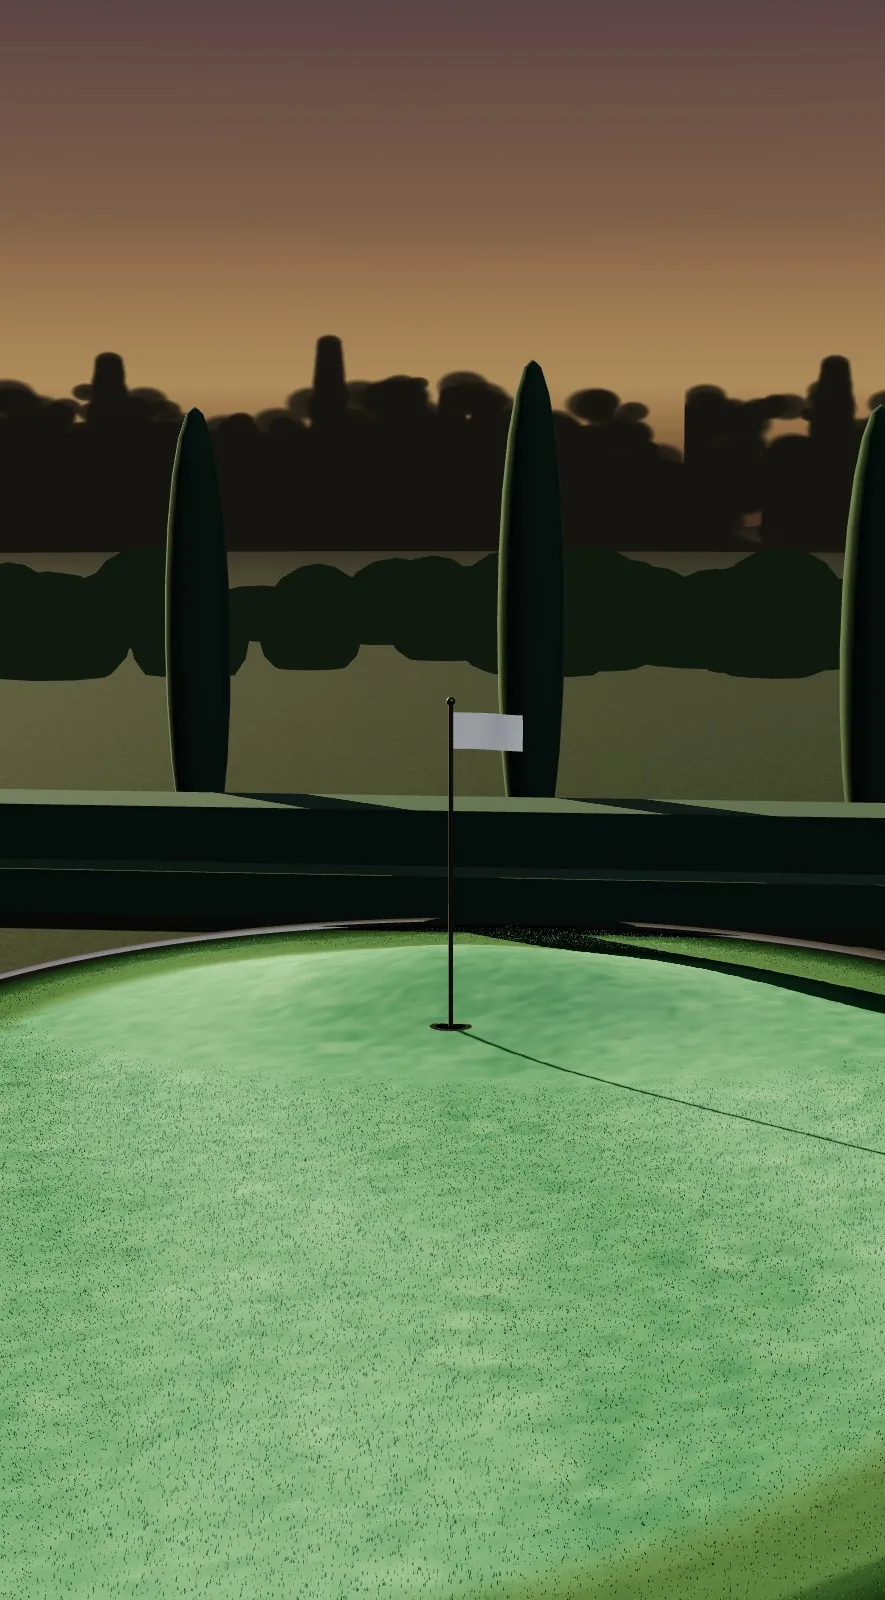
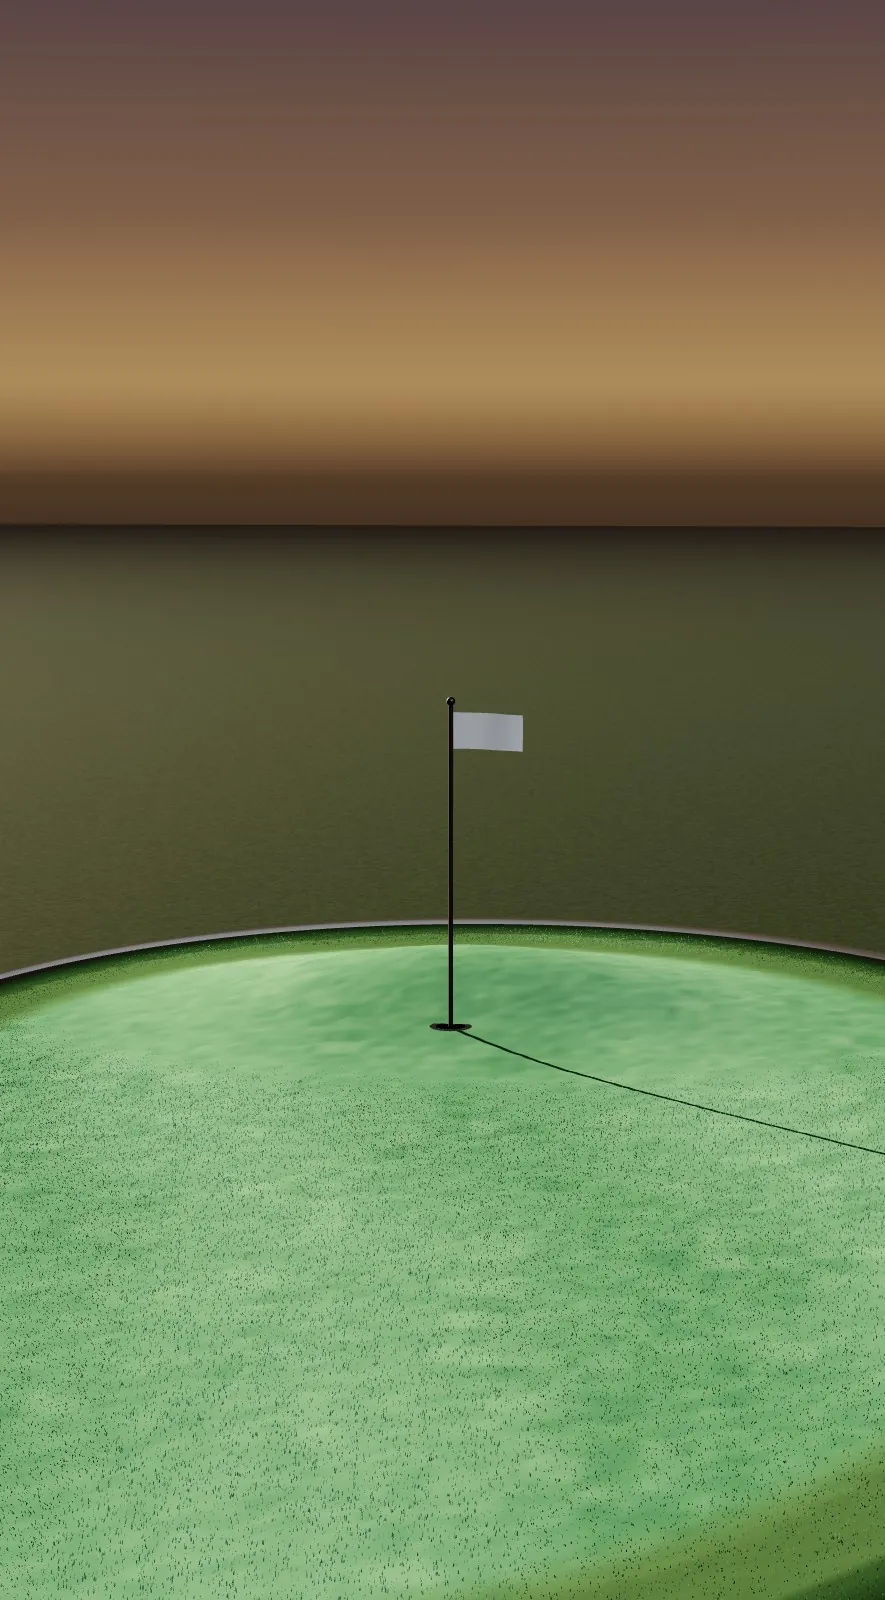
Hero: drop the primitive garden, keep the abstract dusk plain
Vegetation and scenery built from spheres and boxes read as unrealistic, so
the hedge, cypress columns, shrub mass, treeline ring, specimen trees,
terrace and path lights are removed. The environment is now the sky dome,
the darker lawn and the stone coping, plus the hole under the green that
fixes the sunken-turf glitch. Posters and share image re-captured.

diff --git a/terraputt-hero.html b/terraputt-hero.html
@@ -1416,8 +1416,8 @@ function init() {
   const SHADOW_RES = LOW_POWER ? 2048 : 4096;
   key.shadow.mapSize.width = SHADOW_RES;
   key.shadow.mapSize.height = SHADOW_RES;
-  key.shadow.camera.left = -18; key.shadow.camera.right = 18;
-  key.shadow.camera.top = 18;  key.shadow.camera.bottom = -18;
+  key.shadow.camera.left = -10; key.shadow.camera.right = 10;
+  key.shadow.camera.top = 10;  key.shadow.camera.bottom = -10;
   key.shadow.camera.near = 0.1; key.shadow.camera.far = 60;
   key.shadow.bias = -0.00015;
   key.shadow.normalBias = 0.035;   // was 0.06 — less "peter panning" so shadows stay attached to raised topology
@@ -1567,7 +1567,6 @@ function buildEnvironment() {
   coping.receiveShadow = true;
   scene.add(coping);
 
-  buildGarden();
 }
 
 function easeInOut(t) { return t<0.5 ? 4*t*t*t : 1 - Math.pow(-2*t+2, 3)/2; }
@@ -1736,191 +1735,6 @@ function updateGeometry(t) {
       mesh.setMatrixAt(k, d.matrix);
     }
     mesh.instanceMatrix.needsUpdate = true;
-  }
-}
-
-/* =================================================================
-   Garden — the designed landscape the green belongs to: clipped
-   hedges as a backdrop, trees with real volume, a stone terrace with
-   path lights where the viewer stands, and a far ring of trees for
-   the horizon. Everything is dark at dusk and lit from behind.
-   ================================================================= */
-function buildGarden() {
-  const leaf  = new THREE.MeshStandardMaterial({ color: 0x142019, roughness: 1.0, metalness: 0.0 });
-  const leafFar = new THREE.MeshBasicMaterial({ color: 0x0f170f, fog: true });
-  const hedge = new THREE.MeshStandardMaterial({ color: 0x182618, roughness: 1.0, metalness: 0.0 });
-  const bark  = new THREE.MeshStandardMaterial({ color: 0x2a2119, roughness: 0.95, metalness: 0.0 });
-
-  // Clipped hedge blocks behind the green, a broken line with gaps for depth
-  const hedges = [
-    // x, z, length(x), height, depth(z)
-    [ 0.0, -8.0, 14.0, 0.82, 0.9],   // main clipped hedge across the back
-    [ 0.0, -7.1, 14.6, 0.38, 0.5],   // lower step in front of it
-    [-7.3, -4.9,  0.9, 0.82, 5.4],   // return down the left side
-    [ 7.3, -6.4,  0.9, 0.82, 2.6]    // short return on the right, open toward the terrace
-  ];
-  for (const [x, z, l, h, d] of hedges) {
-    const m = new THREE.Mesh(new THREE.BoxGeometry(l, h, d), hedge);
-    m.position.set(x, h / 2 - 0.02, z);
-    m.castShadow = true; m.receiveShadow = true;
-    scene.add(m);
-  }
-  // A dark planting bed under the hedge line so it sits in the ground rather than on it
-  const bedMat = new THREE.MeshStandardMaterial({ color: 0x100e0a, roughness: 1.0 });
-  for (const [x, z, w, d] of [[0.0, -7.55, 15.6, 2.0], [-7.3, -4.6, 1.9, 6.4], [7.3, -6.2, 1.9, 3.6]]) {
-    const bed = new THREE.Mesh(new THREE.PlaneGeometry(w, d), bedMat);
-    bed.rotation.x = -Math.PI / 2;
-    bed.position.set(x, -0.012, z);
-    bed.receiveShadow = true;
-    scene.add(bed);
-  }
-  // Two clipped balls at the terrace corners
-  for (const [x, z, r] of [[-7.3, -8.0, 0.5], [7.3, -8.0, 0.5]]) {
-    const b = new THREE.Mesh(new THREE.SphereGeometry(r, 18, 14), hedge);
-    b.position.set(x, r - 0.05, z);
-    b.castShadow = true; b.receiveShadow = true;
-    scene.add(b);
-  }
-
-  // Clipped columns (cypress) behind the hedge, a formal rhythm against the last light
-  const colGeom = new THREE.SphereGeometry(1, 10, 12);
-  for (const x of [-6, -3, 0, 3, 6]) {
-    const h = 4.2 + (Math.abs(x) < 1 ? 0.4 : 0);
-    const c = new THREE.Mesh(colGeom, hedge);
-    c.scale.set(0.3, h / 2, 0.3);
-    c.position.set(x, h / 2 - 0.02, -9.0);
-    c.castShadow = true; c.receiveShadow = true;
-    scene.add(c);
-  }
-
-  // Trees: a trunk and overlapping crowns, low-poly so they read soft
-  const crownGeom = new THREE.SphereGeometry(1, 12, 10);
-  const trunkGeom = new THREE.CylinderGeometry(0.09, 0.14, 1, 8);
-  function tree(x, z, s, seedBits) {
-    const g = new THREE.Group();
-    const trunkH = 2.3 * s;
-    const t = new THREE.Mesh(trunkGeom, bark);
-    t.scale.set(s, trunkH, s);
-    t.position.y = trunkH / 2;
-    t.castShadow = true;
-    g.add(t);
-    const crowns = [[0, 2.7, 0, 1.15], [0.7, 3.0, 0.4, 0.95], [-0.7, 3.1, -0.3, 0.9], [0.2, 3.7, 0.15, 0.85], [0.9, 3.6, -0.5, 0.75], [-0.5, 3.9, 0.6, 0.7], [0.1, 4.3, 0, 0.6]];
-    crowns.forEach(([cx, cy, cz, cr], i) => {
-      const c = new THREE.Mesh(crownGeom, leaf);
-      const jitter = 1 + (((seedBits >> i) & 1) ? 0.08 : -0.06);
-      c.scale.setScalar(cr * s * jitter);
-      c.position.set(cx * s, cy * s, cz * s);
-      c.castShadow = true; c.receiveShadow = true;
-      g.add(c);
-    });
-    g.position.set(x, -0.02, z);
-    scene.add(g);
-    return g;
-  }
-  // Mid-distance trees around the back and sides
-  tree( 23.0, -12.0, 1.15, 1);
-  tree( 19.0,   9.5, 0.95, 3);
-  // Woodland edge on the horizon: hundreds of overlapping, flattened crowns in one
-  // instanced draw. Low and dense, so it reads as a soft dark band under the last light.
-  let seed = 11;
-  const rnd = () => { seed = (seed * 9301 + 49297) % 233280; return seed / 233280; };
-  const WOOD_N = 480;
-  const wood = new THREE.InstancedMesh(new THREE.SphereGeometry(1, 10, 8), leafFar, WOOD_N);
-  const dummy = new THREE.Object3D();
-  for (let i = 0; i < WOOD_N; i++) {
-    const th = rnd() * Math.PI * 2;
-    const r = 30 + rnd() * 10;
-    const sx = 0.8 + rnd() * 0.9, sy = (0.55 + rnd() * 0.55), sz = 0.8 + rnd() * 0.7;
-    dummy.position.set(Math.cos(th) * r, sy * 0.5 + rnd() * 0.4, Math.sin(th) * r);
-    dummy.scale.set(sx, sy, sz);
-    dummy.rotation.y = rnd() * Math.PI;
-    dummy.updateMatrix();
-    wood.setMatrixAt(i, dummy.matrix);
-  }
-  wood.instanceMatrix.needsUpdate = true;
-  scene.add(wood);
-
-  // Far treeline: a feathered silhouette band on a distant ring. Many small soft
-  // clumps per tree so the canopy edge is ragged, never a hard blob.
-  const tCanvas = document.createElement('canvas');
-  tCanvas.width = 4096; tCanvas.height = 512;
-  const tctx = tCanvas.getContext('2d');
-  tctx.clearRect(0, 0, 4096, 512);
-  const clump = (cx, cy, r, a) => {
-    const g = tctx.createRadialGradient(cx, cy, r * 0.15, cx, cy, r);
-    g.addColorStop(0, 'rgba(12,17,12,' + a + ')');
-    g.addColorStop(0.7, 'rgba(12,17,12,' + (a * 0.85) + ')');
-    g.addColorStop(1, 'rgba(12,17,12,0)');
-    tctx.fillStyle = g; tctx.beginPath(); tctx.arc(cx, cy, r, 0, Math.PI * 2); tctx.fill();
-  };
-  // understorey: a continuous soft band along the bottom
-  for (let x = -40; x < 4136; x += 18) clump(x, 470 + Math.sin(x * 0.013) * 12, 60 + Math.sin(x * 0.031) * 18, 1);
-  for (let i = 0; i < 150; i++) {
-    const x = rnd() * 4096;
-    if (rnd() < 0.22) {            // conifer: a narrow stack of clumps
-      const h = 220 + rnd() * 220, w = 46 + rnd() * 30;
-      for (let k = 0; k < 40; k++) { const f = k / 39; clump(x + (rnd() - 0.5) * w * (1 - f) * 0.35, 470 - h * f, w * (1 - f * 0.78) * 0.62 + 9, 1); }
-    } else {                       // broadleaf: an ellipse of many small clumps
-      const h = 150 + rnd() * 200, w = 120 + rnd() * 200;
-      const cy = 470 - h * 0.62;
-      for (let k = 0; k < 42; k++) {
-        const a = rnd() * Math.PI * 2, d = Math.sqrt(rnd());
-        clump(x + Math.cos(a) * d * w * 0.5, cy + Math.sin(a) * d * h * 0.42, 14 + rnd() * 26, 0.95);
-      }
-      tctx.fillStyle = 'rgba(12,17,12,1)'; tctx.fillRect(x - 5, cy, 10, 470 - cy);
-    }
-  }
-  const treeTex = new THREE.CanvasTexture(tCanvas);
-  treeTex.wrapS = THREE.RepeatWrapping;
-  treeTex.repeat.set(4, 1);
-  const treeline = new THREE.Mesh(
-    new THREE.CylinderGeometry(85, 85, 10, 128, 1, true),
-    new THREE.MeshBasicMaterial({ map: treeTex, transparent: true, side: THREE.BackSide, depthWrite: false, fog: true })
-  );
-  treeline.position.y = 5 - 1.0;
-  scene.add(treeline);
-
-  // Stone terrace: large pavers with dark joints, in the foreground where the viewer stands
-  const pCanvas = document.createElement('canvas');
-  pCanvas.width = 512; pCanvas.height = 512;
-  const p = pCanvas.getContext('2d');
-  p.fillStyle = '#5b544a'; p.fillRect(0, 0, 512, 512);            // joints
-  const cols = 2, rows = 3, J = 5;
-  for (let r = 0; r < rows; r++) for (let c = 0; c < cols; c++) {
-    const w = 512 / cols, h = 512 / rows;
-    const shade = 150 + Math.floor(((r * 7 + c * 13) % 5) * 5);
-    p.fillStyle = 'rgb(' + (shade + 4) + ',' + (shade - 4) + ',' + (shade - 18) + ')';
-    p.fillRect(c * w + J, r * h + J, w - J * 2, h - J * 2);
-  }
-  const pTex = new THREE.CanvasTexture(pCanvas);
-  pTex.wrapS = pTex.wrapT = THREE.RepeatWrapping;
-  pTex.repeat.set(5, 3);
-  pTex.anisotropy = 8;
-  const terrace = new THREE.Mesh(
-    new THREE.PlaneGeometry(6.5, 7.0),
-    new THREE.MeshStandardMaterial({ map: pTex, color: 0x9a9080, roughness: 0.9, metalness: 0.0 })
-  );
-  terrace.rotation.x = -Math.PI / 2;
-  terrace.position.set(9.5, -0.004, 2.0);
-  terrace.receiveShadow = true;
-  scene.add(terrace);
-
-  // Path lights along the terrace edge: a small warm glow on the coping and turf
-  const postGeom = new THREE.CylinderGeometry(0.035, 0.04, 0.52, 10);
-  const capGeom  = new THREE.CylinderGeometry(0.07, 0.05, 0.05, 12);
-  const postMat  = new THREE.MeshStandardMaterial({ color: 0x2a241e, roughness: 0.6, metalness: 0.5 });
-  const glowMat  = new THREE.MeshStandardMaterial({ color: 0xffd7a8, emissive: 0xffb872, emissiveIntensity: 2.2, roughness: 0.4 });
-  for (const [x, z] of [[6.4, 6.0], [9.2, 4.3]]) {
-    const post = new THREE.Mesh(postGeom, postMat);
-    post.position.set(x, 0.26, z);
-    post.castShadow = true;
-    scene.add(post);
-    const cap = new THREE.Mesh(capGeom, glowMat);
-    cap.position.set(x, 0.545, z);
-    scene.add(cap);
-    const pl = new THREE.PointLight(0xffb474, LOW_POWER ? 0.5 : 0.75, 5.5, 2);
-    pl.position.set(x, 0.5, z);
-    scene.add(pl);
   }
 }
 
